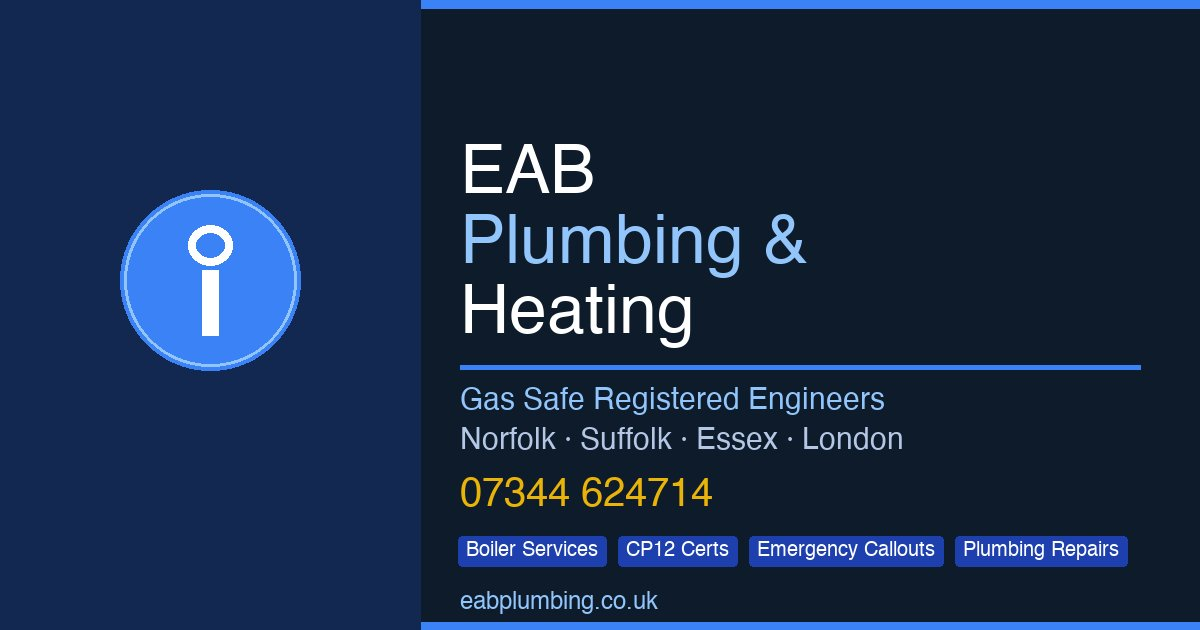
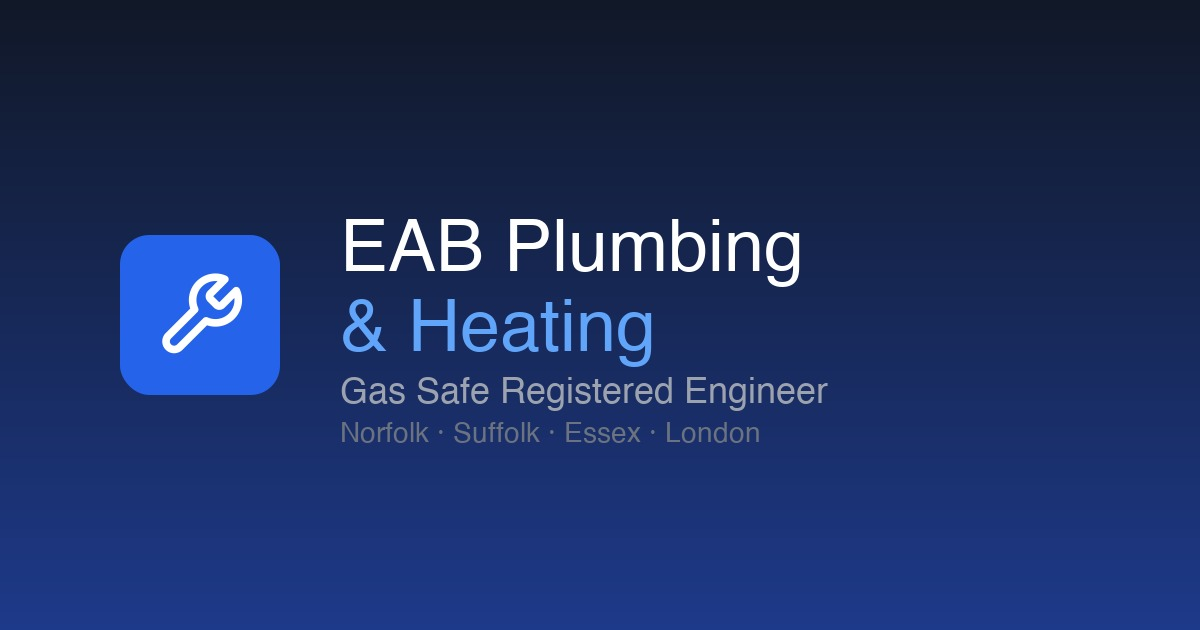
feat: add og:image for WhatsApp/social link previews

diff --git a/src/app/layout.tsx b/src/app/layout.tsx
@@ -19,10 +19,12 @@ export const metadata: Metadata = {
     url: "https://eabplumbing.co.uk",
     siteName: "EAB Plumbing & Heating",
     type: "website",
+    images: [{ url: "https://eabplumbing.co.uk/og-image.jpg", width: 1200, height: 630, alt: "EAB Plumbing & Heating" }],
     locale: "en_GB",
   },
   twitter: {
-    card: "summary",
+    card: "summary_large_image",
+    images: ["https://eabplumbing.co.uk/og-image.jpg"],
     title: "EAB Plumbing & Heating | Gas Safe Engineer",
     description: "Gas Safe registered engineer covering Norfolk, Suffolk, Essex & London.",
   },